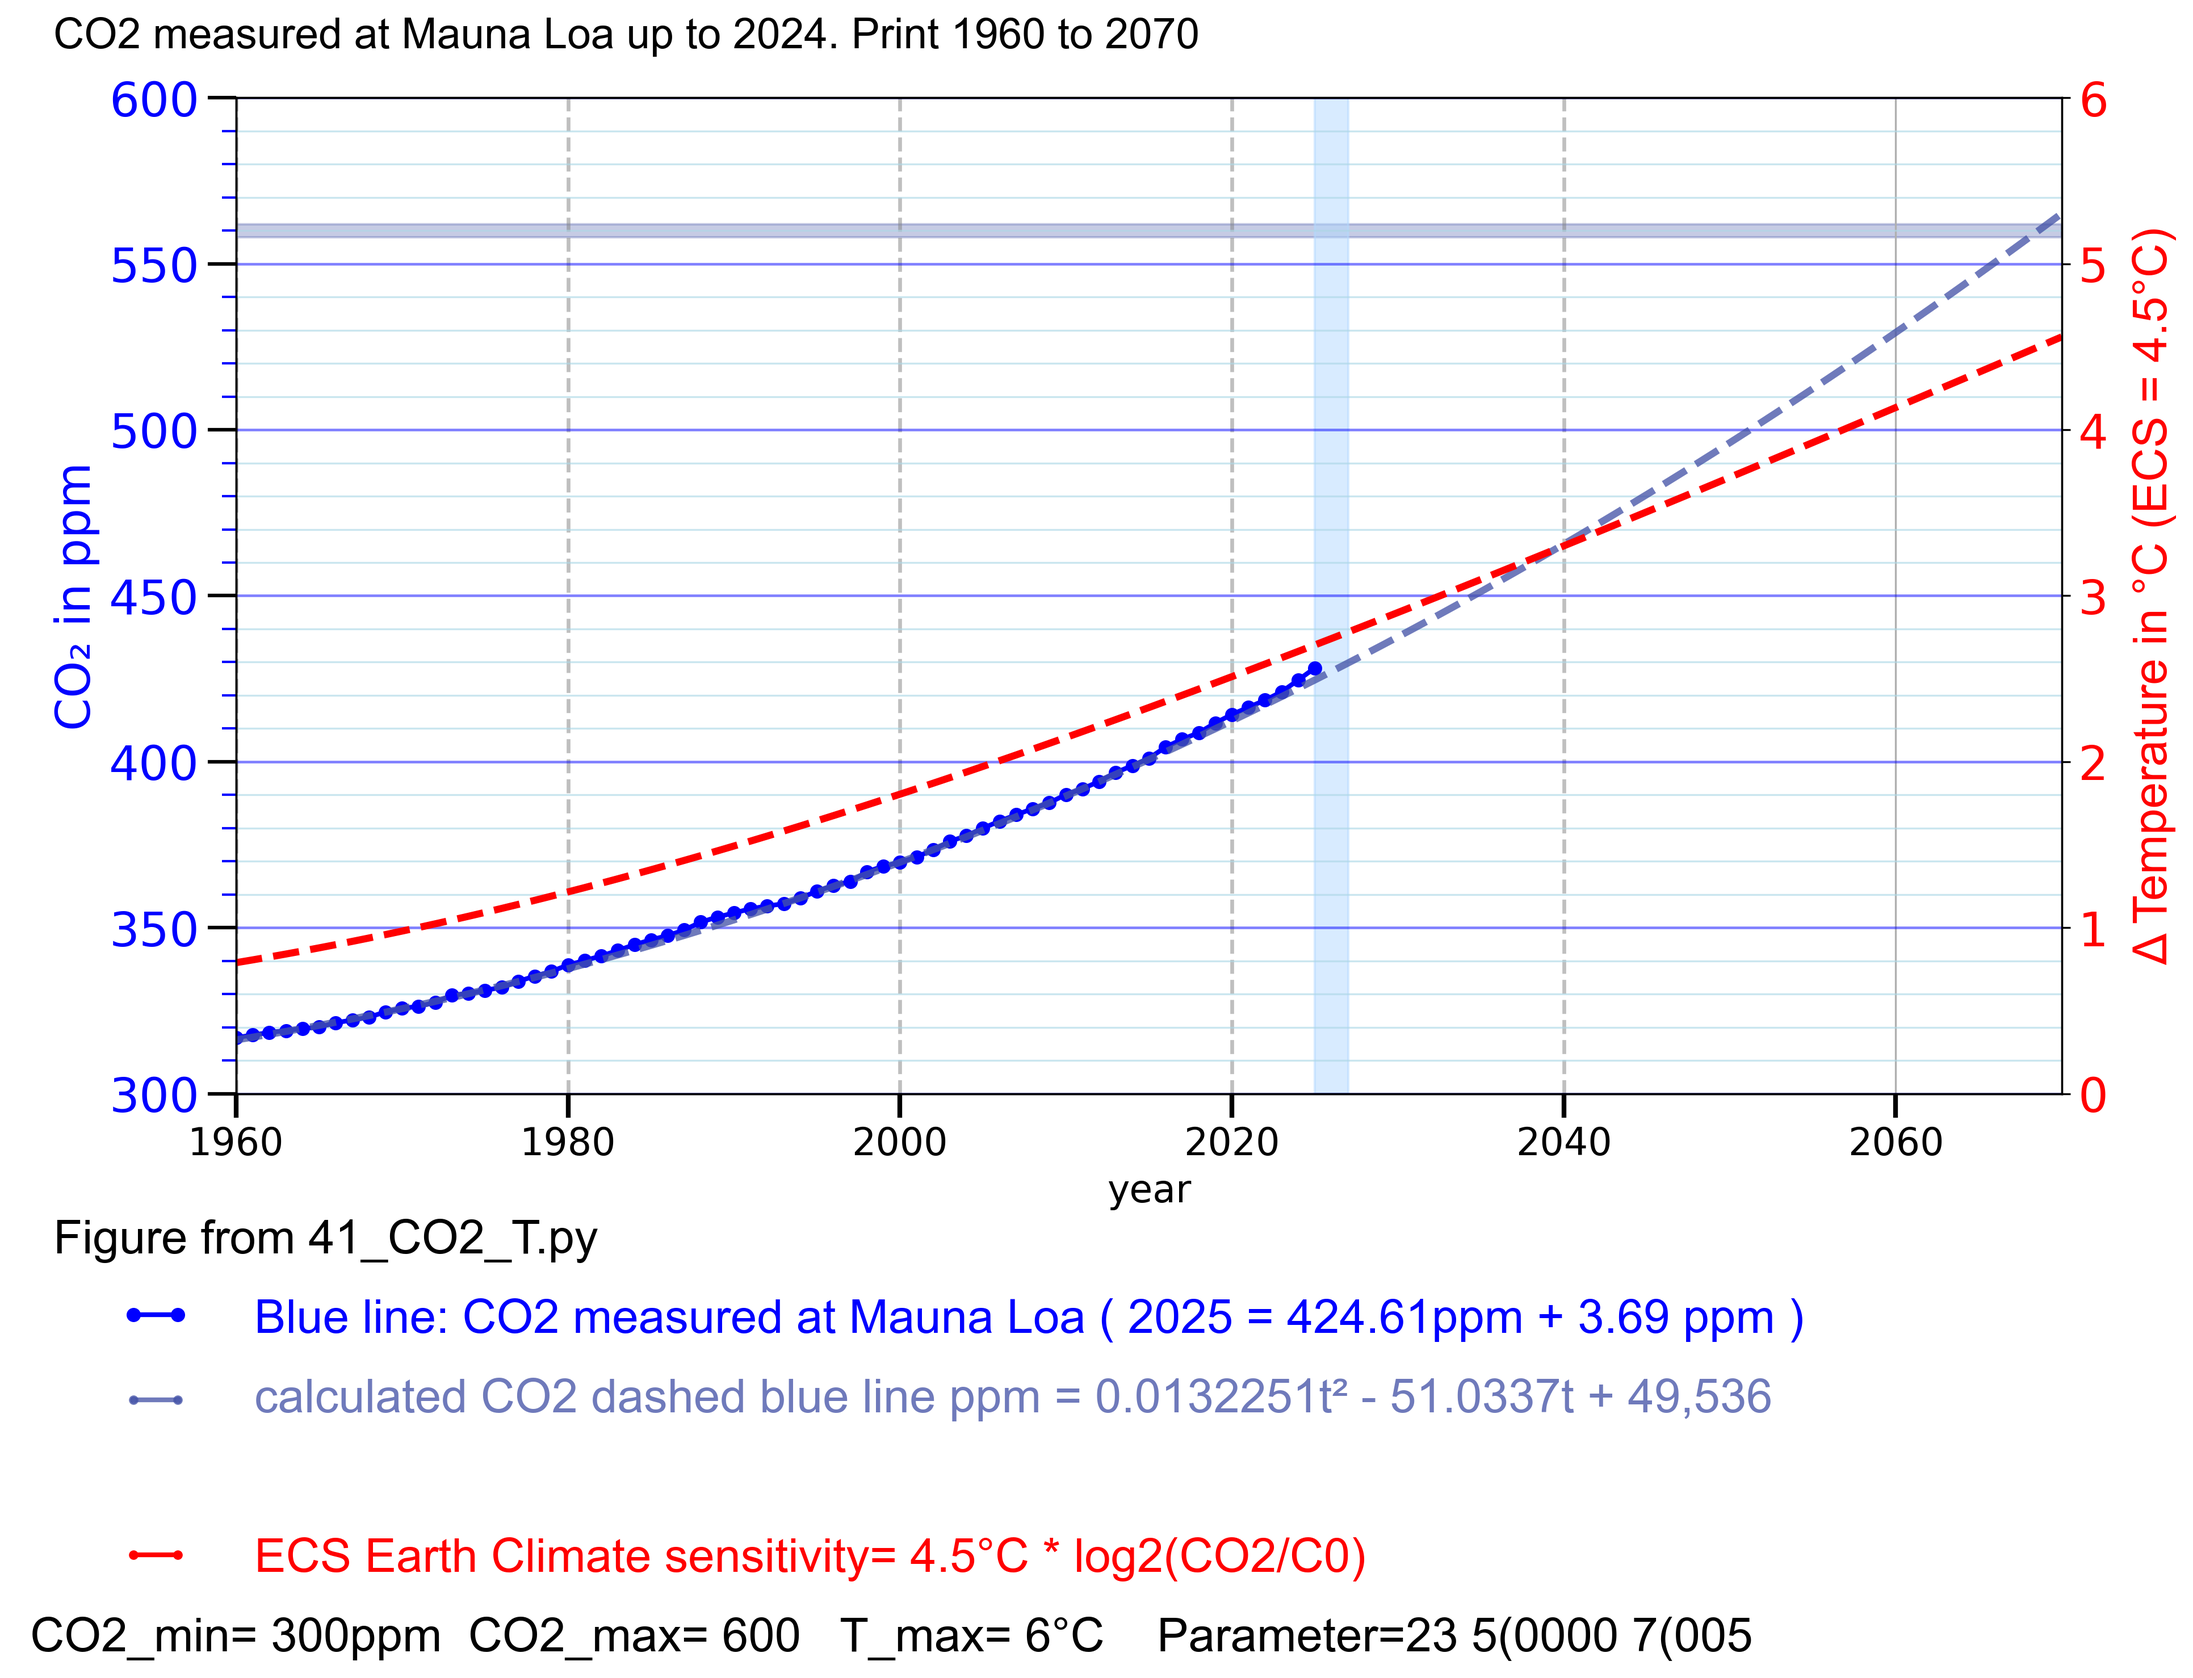
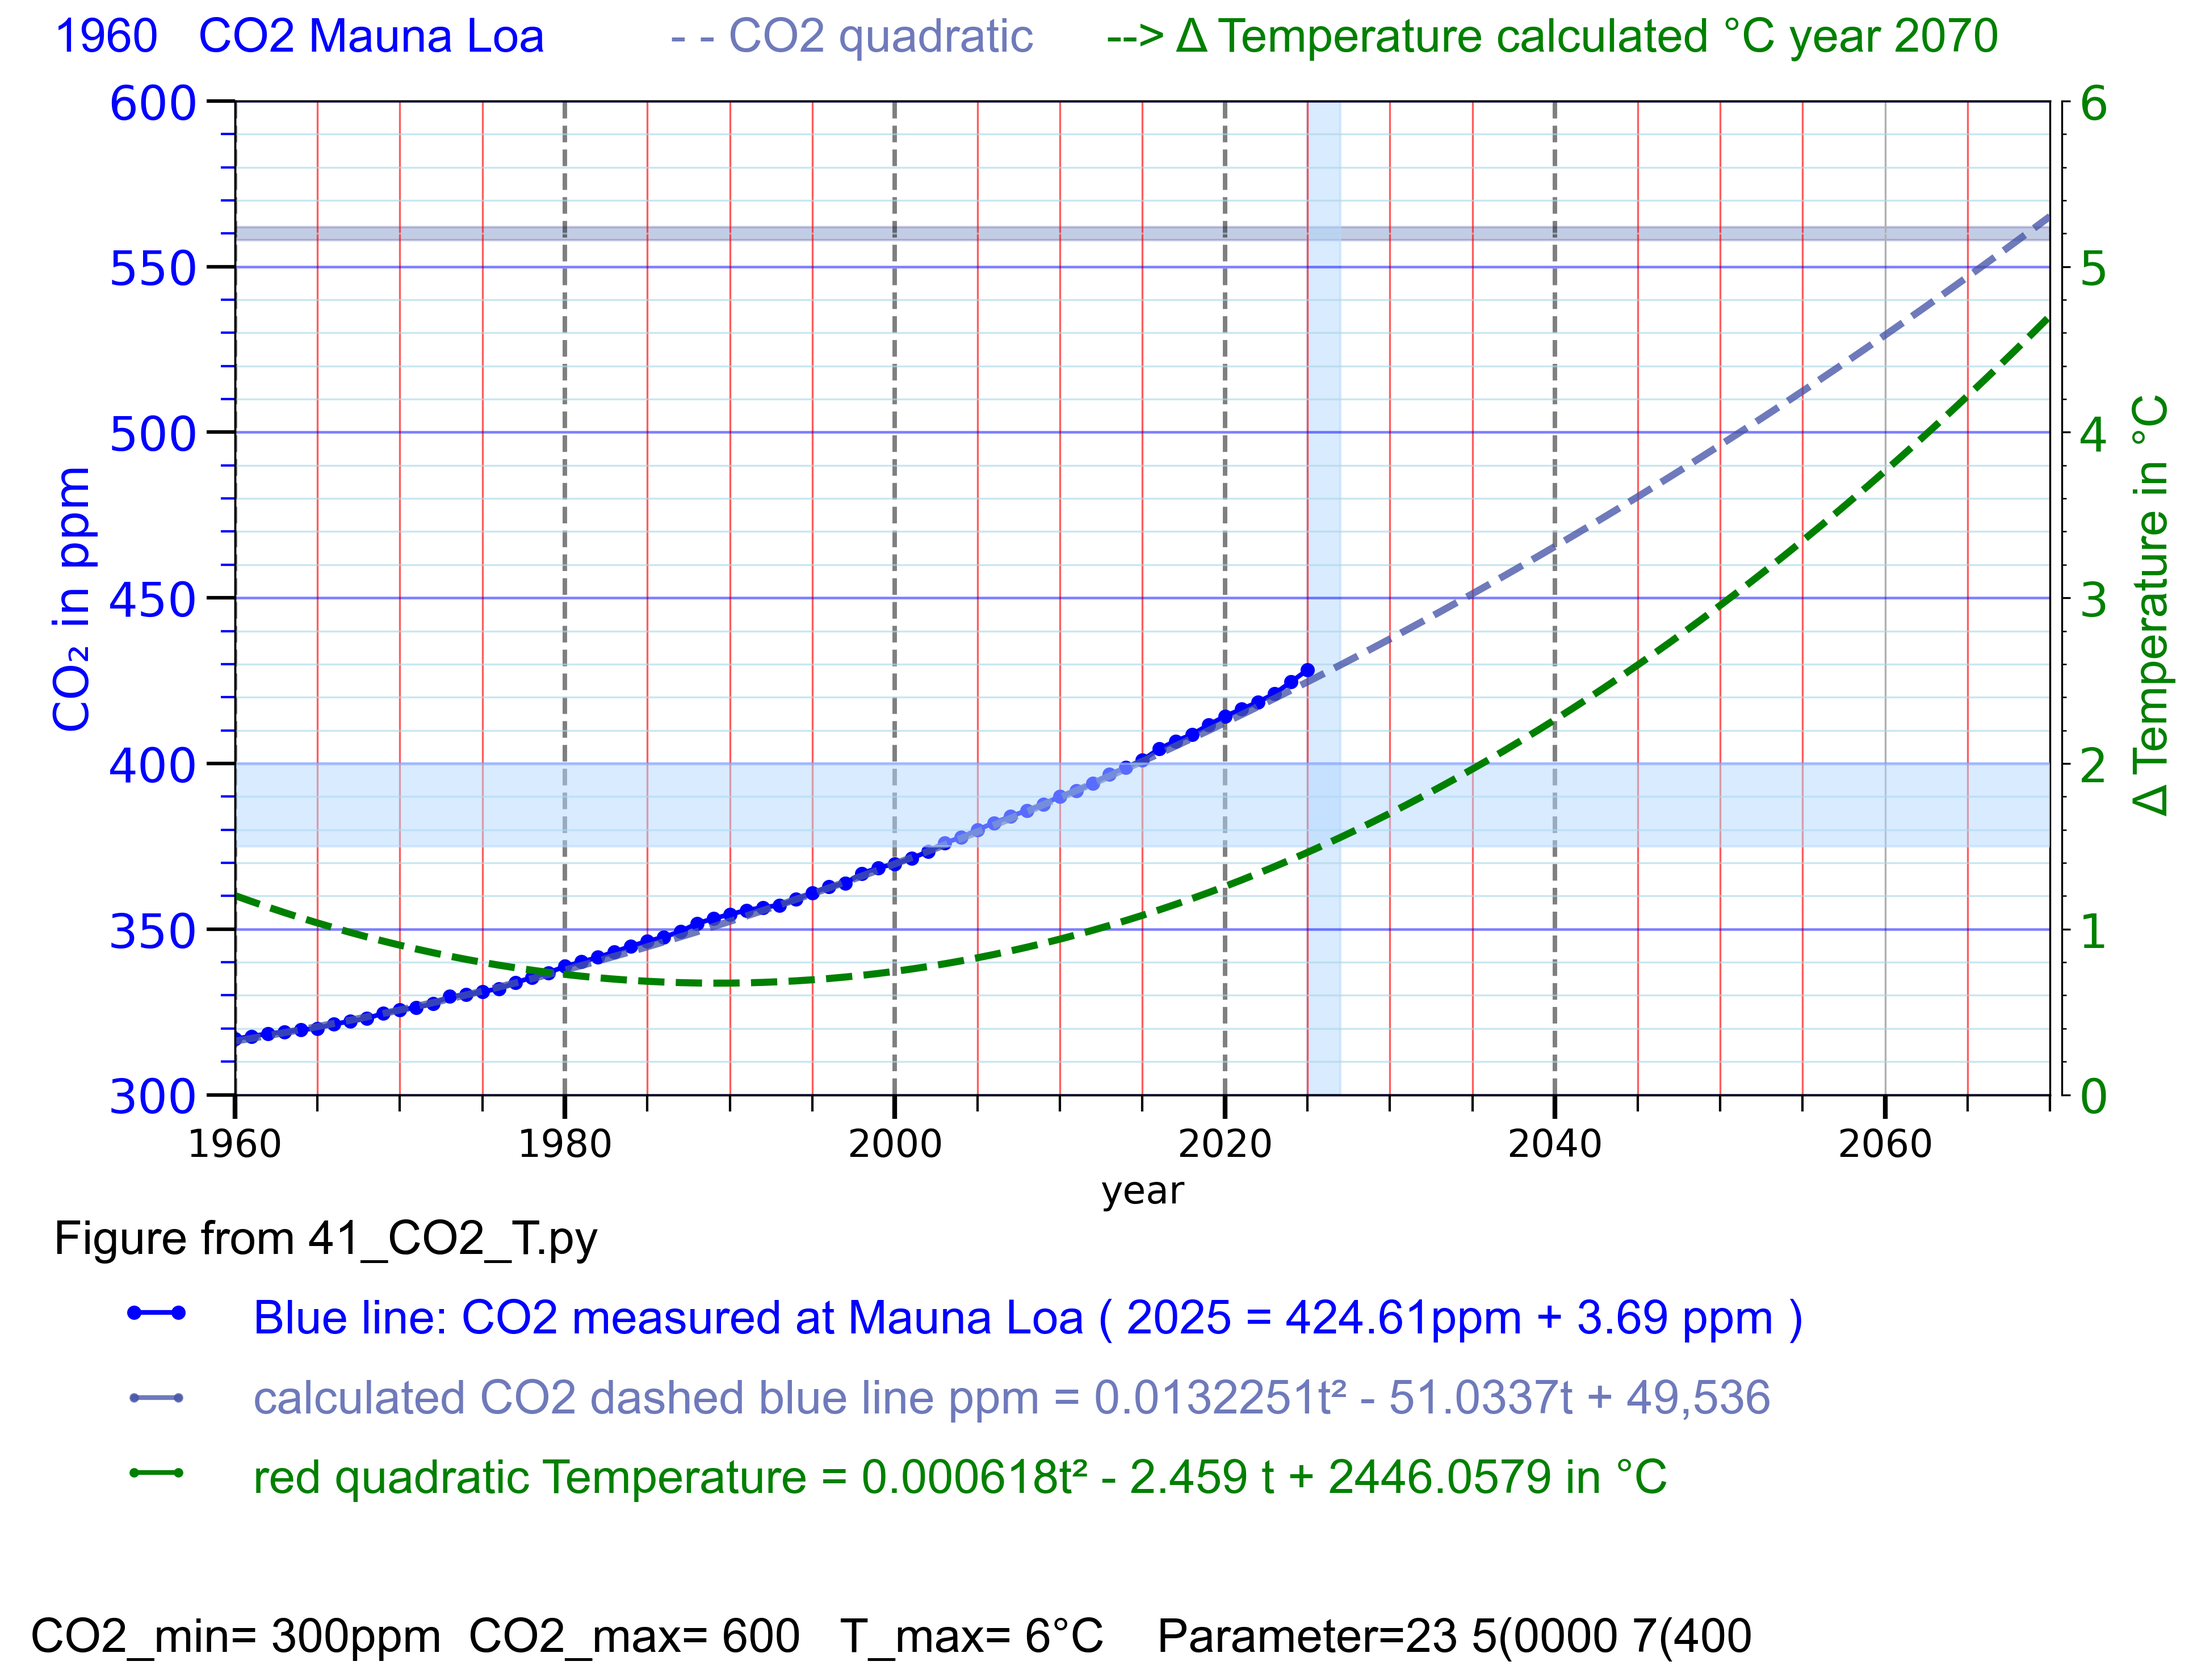
41s5_CO2_T.py x axis ok with plot71_temperature = 4

diff --git a/41_CO2_T.py b/41_CO2_T.py
@@ -1,4 +1,4 @@
-# 41s4_CO2_T.py x axis
+# 41s5_CO2_T.py x axis ok with plot71_temperature = 4
 # Thomas Boettcher
 # part 1 configure 
 # part 2 plot CO2 Mauna Loa
@@ -41,14 +41,15 @@ plot53_CO2_orange2025 = 0 # 3, 4, 0 orange Glen , 1 = 0.013t² - 51t + 49,536 in
 plot54_Glen_delta_on = 0 #  4, 0 print row 4 # green Glen diff print in line 4
 plot55_population_on = 0 # 5 row 5 # 0=no print , 1 = population in green
 # no part 6
-plot71_temperature = 0 # 4,5, 0
-c71 = "red" # plot71 color
+plot71_temperature = 4 # 4,5, 0
+c71 = "red" # plot71 color 
+c71 = "green" 
 plot72_AESS_T= 0 # 5,0 apparent Earth system sensitivity (AESS=7.7°C)
 if plot71_temperature < 1:
    c72 = "red" # plot72 color
 else:   
    c72 = "#DD3646A3" # plot72 color
-plot73_ECS_T= 5 # 6,5 #  Earth Climate sensitivity (ECS=4.5°C)
+plot73_ECS_T= 0 # 6,5 #  Earth Climate sensitivity (ECS=4.5°C)
 if plot71_temperature < 1 and plot72_AESS_T < 1:
    c73 = "red" # plot73 color
 else:   
@@ -269,7 +270,7 @@ if scale_mode == 10:
        line.set_color('black')          # vertical color
        line.set_alpha(0.5)
        line.set_linestyle('--')        # optional '--'
-       line.set_linewidth(1.6)   # <-- thickness
+       line.set_linewidth(1.9)   # <-- thickness
    # 2.6.2 vertical minor grid all 2 years
    ax1.grid(True, which="minor", axis="x", color="red", alpha=0.64)   # no work vertical
    # 2.6.3 horizontal major grid all 50ppm
@@ -462,17 +463,19 @@ def T_model71(t):
 # 7.1.2 years scale x axis
 years71 = np.arange(x_anf, x_end + 1 )
 T_71values = T_model71(years71)
-# -- 7.1.4. Create DataFrame for convenience
+# 7.1.3. Create DataFrame for convenience
 df7 = pd.DataFrame({
       "Year71": years71,
       "Modeled71": T_71values })
-# 7.1.6 plot71_temperature
+# 7.1.4 plot71_temperature
 if plot71_temperature > 0:
    ax71 = ax1.twinx()  # twinx(): Shares the same x-axis Adds a new y-axis on the right
    ax71.plot(df7["Year71"], df7["Modeled71"], '--', label="T formula CO2=  K6", color=c71, linewidth=3)
    ax71.tick_params(axis="y", labelcolor=c71)
    ax71.set_ylim(y_Tmin, y_Tmax) # scale
+    # big ticks 2°C
    ax71.yaxis.set_major_locator(MultipleLocator(y_Tmayor_ticks))   # Hauptstriche
+   # small ticks 0.2°C
    ax71.yaxis.set_minor_locator(MultipleLocator(y_Tminor_ticks))   # Nebenstriche
 # 7.1.7 plot71 Achse und Beschriftung
 if plot71_temperature > 0:
@@ -487,11 +490,9 @@ if plot71_temperature > 0:
          labelpad=10   # smaller = closer to y axis
    )
    ax71.tick_params(axis="y", labelcolor=c71, labelsize=20)
-# 7.1.8 plot71_temperature
+# 7.1.9 draw blue 1.5°C bar
 if plot71_temperature > 0:
-   ax71.set_ylim(y_Tmin, y_Tmax) # scale
-   ax71.axhspan(1.5, 2.0, color="#B3D9FF", alpha=0.25, zorder=0) # color="lightblue" 2°C streifen
-   ax71.axvspan(2024, 2026, color="#B3D9FF", alpha=0.25, zorder=0) # vertical bar'
+   ax71.axhspan(1.5, 2.0, color="#B3D9FF", alpha=0.5, zorder=0) # color="lightblue" 2°C streifen
 
 
 # plot72_AESS_T= 4 # apparent Earth system sensitivity (AESS=7.7°C)
